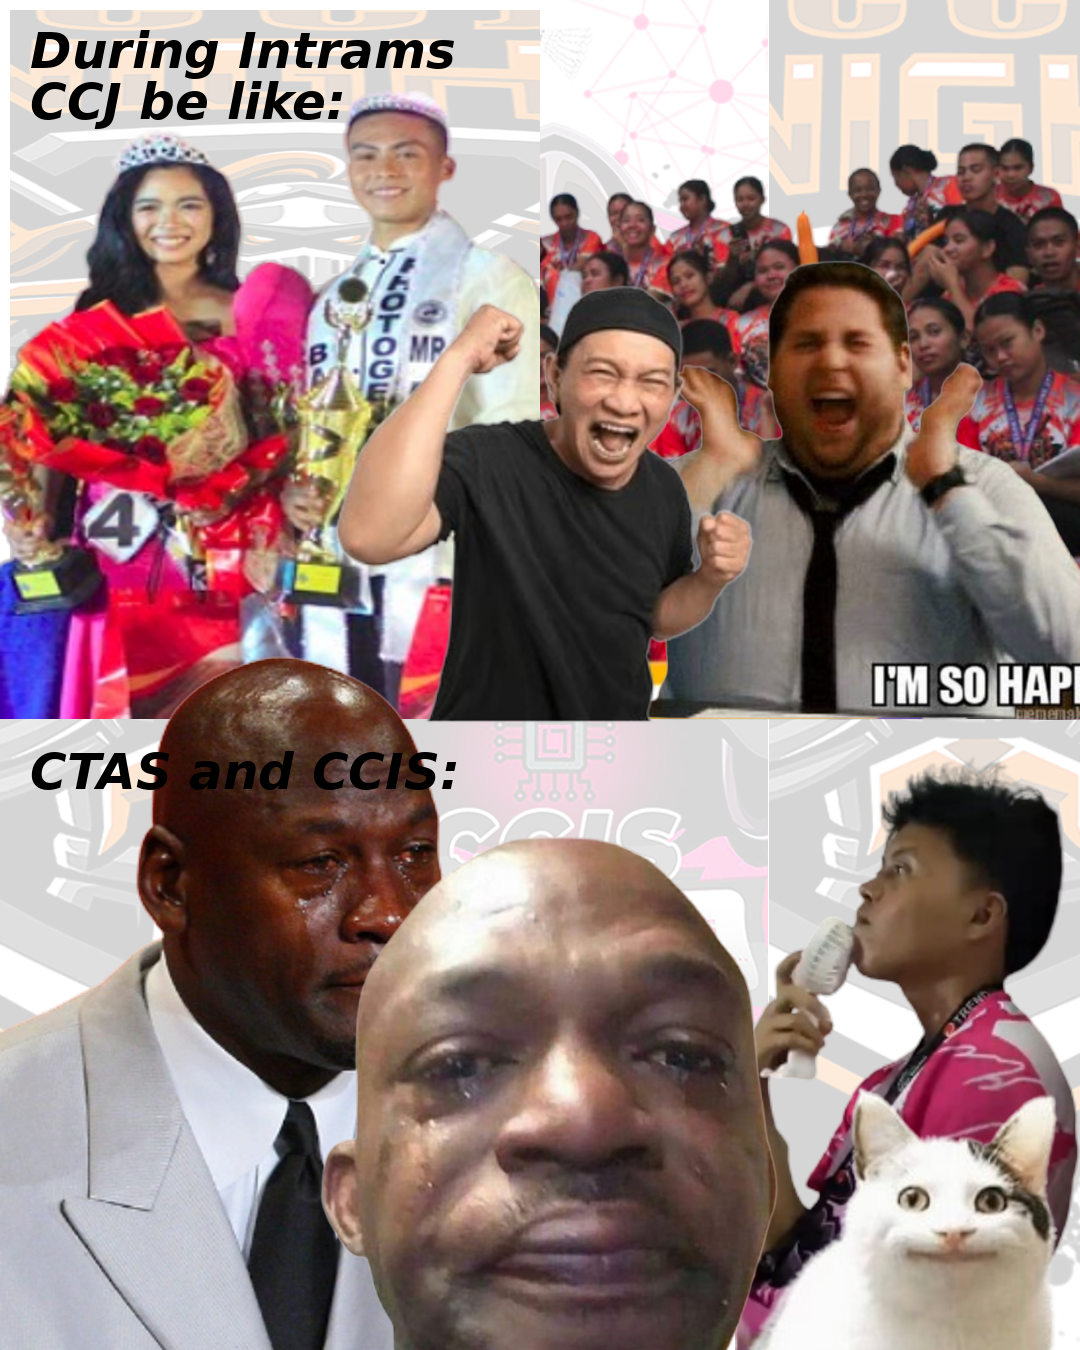
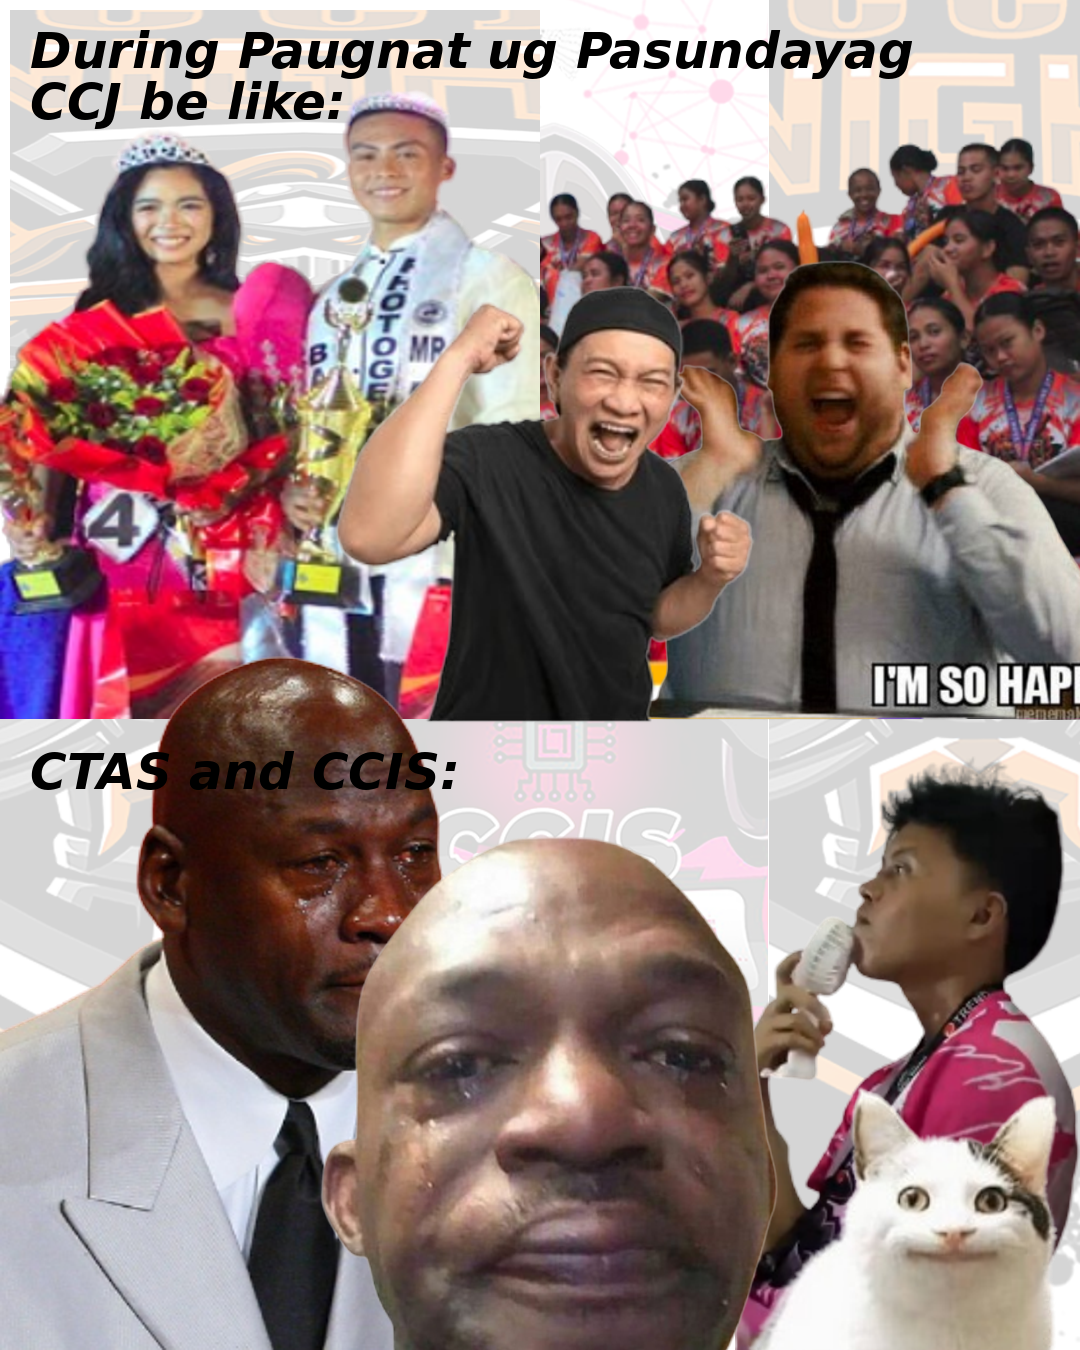
final ?

Changed region(s): [[0.2139, 0.0, 0.8556, 0.0622]]

diff --git a/activities/activity1/meme.py b/activities/activity1/meme.py
@@ -39,7 +39,7 @@ mainCanvas.paste(bgCanvas, (0,0), bgCanvas)
 draw = ImageDraw.Draw(mainCanvas)
 
 # i add text here so i will just call them when added the text using Draw
-ccjText = "During Intrams \nCCJ be like: "
+ccjText = "During Paugnat ug Pasundayag \nCCJ be like: "
 ccisCtasText = "CTAS and CCIS: "
 
 # make new canva for putting the image of the winner of pageant

diff --git a/activities/activity1/README.md b/activities/activity1/README.md
@@ -1,0 +1,14 @@
+**Meme Concept – CCJ Intramurals Victory**
+
+----
+
+This meme celebrates the College of Criminal Justice (CCJ) winning the Intramurals Grand Champion title. It playfully highlights how CTAS and CCIS did not secure the overall win, while emphasizing CCJ’s dominance not only in sports and competitions but also in the prestigious Mr. & Ms. Intramurals Pageant.
+
+The concept combines humor with school pride, making it relatable to students who experienced the paugnat ug pasundayag (competitions and performances) of the intramurals. The meme theme is victory + playful rivalry, showing CCJ’s big moment as the spotlight of the event.
+
+
+**James Paul B. Dacaldacal**
+
+----
+
+**PEACE \/**
